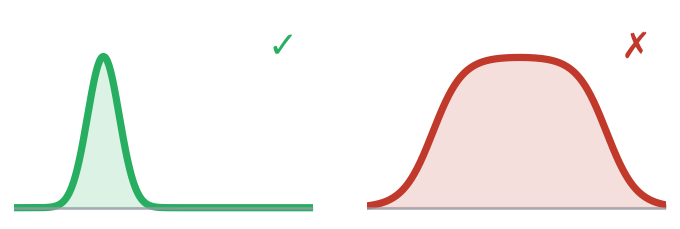
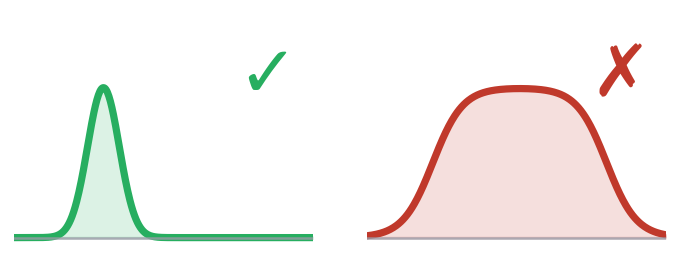
Time to look at the pictogram, and marks big enough to read
Three seconds is enough to get ready and not enough to read a drawing and
then get ready, so the picture went by before it had been seen.

It is shown through the warm-up as well — ten seconds with nothing to do but
warm up, which is where there is most time — and the first countdown of each
muscle, the one that carries it, lasts seven seconds instead of three.
Nothing recorded moves with that: the CAL span opens when the effort does,
not when the count starts.

And the tick and the cross are drawn twice the size. At the distance this
panel is read from they are the first thing looked at, and they are what says
which of the two shapes is being asked for.

Changed region(s): [[0.525, 0.1223, 0.9882, 0.9476], [0.0, 0.214, 0.4632, 0.9476], [0.3706, 0.1528, 0.4324, 0.3668]]

diff --git a/src/emgteach/gui/tabs/acquisition.py b/src/emgteach/gui/tabs/acquisition.py
@@ -156,6 +156,12 @@ MAX_MARKER_LINES = 40
 # Guided MVC-calibration wizard timing.
 MVC_TICK_MS = 100   # state-machine tick
 MVC_READY_S = 3.0   # "get ready" countdown before each contraction
+#: And the first of each muscle, which is the one that carries the
+#: pictogram of the gesture. Three seconds is enough to get ready and not
+#: enough to look at a drawing and then get ready: the picture went by
+#: before it could be read. Nothing recorded moves with this — the ``CAL``
+#: span opens when the effort does, not when the count starts.
+MVC_READY_PRIMERA_S = 7.0
 MVC_REST_S = 2.0    # relax pause between reps / muscles
 
 #: The free manoeuvres of the pair practical: six contractions led by one
@@ -3228,7 +3234,11 @@ class AcquisitionTab(QWidget):
             # the first maximal effort of a session is never the strongest —
             # is in the tour, the guide and the manual, where there is time.
             detalle = tr("Two or three easy contractions of each muscle.")
-            self._mvc_overlay.show_ready(titulo, cuenta, detalle)
+            # The picture of what is coming, where there is most time to
+            # look at it: ten seconds with nothing to do but warm up.
+            self._mvc_overlay.show_ready(
+                titulo, cuenta, detalle, imagen("sacudida"),
+                waiting=min(1.0, self._mvc_elapsed / max(total, 1e-9)))
             self._mvc_info(tr("Warming up: {n}").format(n=cuenta))
             self._bcast_calib(True, "warmup", titulo, detalle, count=cuenta)
             if self._mvc_elapsed >= total:
@@ -3237,9 +3247,11 @@ class AcquisitionTab(QWidget):
             return
 
         if self._mvc_phase == "ready":
+            total_cuenta = (MVC_READY_PRIMERA_S if self._mvc_rep == 0
+                            else MVC_READY_S)
             if self._mvc_elapsed <= MVC_TICK_MS / 1000.0:
                 self._mvc_rest_buf = []      # one baseline per repetition
-            count = max(1, int(np.ceil(MVC_READY_S - self._mvc_elapsed)))
+            count = max(1, int(np.ceil(total_cuenta - self._mvc_elapsed)))
             detalle = self._mvc_gesto(self._mvc_muscle)
             self._mvc_overlay.show_ready(
                 tr("Get ready — {label}{rep}").format(label=label, rep=rep),
@@ -3255,7 +3267,7 @@ class AcquisitionTab(QWidget):
                 # picture pays for itself once; by the second repetition it
                 # is a panel taller than it needs to be over the traces.
                 imagen("sacudida") if self._mvc_rep == 0 else None,
-                waiting=min(1.0, self._mvc_elapsed / MVC_READY_S),
+                waiting=min(1.0, self._mvc_elapsed / total_cuenta),
             )
             self._mvc_info(
                 tr("Get ready — {label}{rep}: {n}").format(label=label, rep=rep, n=count)
@@ -3265,7 +3277,7 @@ class AcquisitionTab(QWidget):
                 tr("Get ready — {label}{rep}").format(label=label, rep=rep),
                 detalle, count=count,
             )
-            if self._mvc_elapsed >= MVC_READY_S:
+            if self._mvc_elapsed >= total_cuenta:
                 self._mvc_phase = "contract"
                 self._mvc_elapsed = 0.0
                 self._mvc_cur_buf = []

diff --git a/tools/pictograma_sacudida.py b/tools/pictograma_sacudida.py
@@ -54,7 +54,7 @@ def _meseta(t: np.ndarray) -> np.ndarray:
 
 
 def dibuja(destino: Path = SALIDA) -> Path:
-    fig, ejes = plt.subplots(1, 2, figsize=(3.4, 1.15), dpi=200)
+    fig, ejes = plt.subplots(1, 2, figsize=(3.4, 1.30), dpi=200)
     t = np.linspace(0, 1, 400)
     for ax, y, color, marca in (
         (ejes[0], _pico(t), VERDE, "✓"),
@@ -63,10 +63,13 @@ def dibuja(destino: Path = SALIDA) -> Path:
         ax.plot(t, y, color=color, linewidth=2.6, solid_capstyle="round")
         ax.fill_between(t, 0, y, color=color, alpha=0.16)
         ax.set_xlim(0, 1)
-        ax.set_ylim(-0.08, 1.35)
+        ax.set_ylim(-0.08, 1.55)
         ax.axis("off")
         # The mark goes in the corner, away from the curve it judges.
-        ax.text(0.95, 1.18, marca, color=color, fontsize=13, fontweight="bold",
+        # Grande: a la distancia a la que se mira este panel, el visto y la
+        # cruz son lo primero que se lee, y son lo que dice cuál de las dos
+        # formas se pide.
+        ax.text(0.95, 1.30, marca, color=color, fontsize=26, fontweight="bold",
                 ha="right", va="top")
         # A baseline, so the shape reads as a signal and not as a hill.
         ax.plot([0, 1], [0, 0], color=TINTA, linewidth=0.9, alpha=0.8)

diff --git a/tests/test_gui_session_phases.py b/tests/test_gui_session_phases.py
@@ -82,14 +82,16 @@ def _una_repeticion(tab) -> None:
     what is under test is which annotations come out and in what order, not how
     long a countdown lasts.
     """
-    from emgteach.gui.tabs.acquisition import MVC_READY_S
+    from emgteach.gui.tabs.acquisition import MVC_READY_PRIMERA_S
 
     tab._mvc_reps = 1
     tab._mvc_bursts = 0                     # no brief efforts either
     tab._mvc_muscle = 0
     tab._mvc_rep = 0
     tab._mvc_phase = "ready"
-    tab._mvc_elapsed = MVC_READY_S          # the countdown has just run out
+    # The first of each muscle has the longer count — it is the one that
+    # carries the pictogram — and this is rep 0.
+    tab._mvc_elapsed = MVC_READY_PRIMERA_S  # the countdown has just run out
     tab._mvc_tick()                         # → contract, opens the CAL span
     tab._mvc_cur_buf = [0.10] * 100
     tab._mvc_finish_rep()                   # closes it, computes, finishes

diff --git a/tests/test_simulada_obedece.py b/tests/test_simulada_obedece.py
@@ -286,7 +286,7 @@ class TestItIsQuietForAsLongAsTheWizardLasts:
     def test_the_wizard_asks_for_rest_from_the_warm_up_to_the_end(
         self, adquisicion
     ) -> None:
-        from emgteach.gui.tabs.acquisition import MVC_READY_S
+        from emgteach.gui.tabs.acquisition import MVC_READY_PRIMERA_S
         from emgteach.profiles import EMG_PROFILE
 
         tab = adquisicion
@@ -297,7 +297,7 @@ class TestItIsQuietForAsLongAsTheWizardLasts:
             tab._mvc_muscle = 0
             tab._mvc_rep = 0
             tab._mvc_phase = "ready"
-            tab._mvc_elapsed = MVC_READY_S
+            tab._mvc_elapsed = MVC_READY_PRIMERA_S     # la primera, más larga
             tab._mvc_tick()                                  # the countdown ends
             assert tab._mvc_phase == "contract"
             assert "CAL start ch=1 rep=1" in tab._worker.markers

diff --git a/CHANGELOG.md b/CHANGELOG.md
@@ -11,6 +11,8 @@ and this project adheres to [Semantic Versioning](https://semver.org/spec/v2.0.0
 
 - **The countdown before an effort says the gesture, and only that.** It said the rule first — a brief, explosive jerk and not a sustained push — and the gesture after it, which came to two lines in a panel read in three seconds while somebody is about to move. The rule is not lost by leaving: the pictogram beside that line says it without words, and the effort itself, a second and a half later, is titled with it. A pair the application knows nothing about has no gesture to name, so it still gets the rule — which is the one thing true of any pair, and why the instruction never assumes a forearm. Nothing the wizard shows wraps past one line now.
 
+- **And there is time to look at the pictogram.** Three seconds is enough to get ready and not enough to read a drawing and then get ready, so the picture went by before it had been seen. It is now shown through the warm-up as well — ten seconds with nothing to do but warm up, which is where there is most time — and the first countdown of each muscle, the one that carries it, lasts seven seconds instead of three. Nothing recorded moves with that: the `CAL` span opens when the effort does, not when the count starts. The tick and the cross are drawn twice the size, because at the distance this panel is read from they are the first thing looked at and what says which of the two shapes is being asked for.
+
 - **What the rehearsal with the simulated board found.** Four things a session run end to end shows and no test could: the warm-up put up a row of boxes it was never going to fill, so it has none — the map of the calibration appears with the first countdown, which is the first thing that fills one; the countdown is now **also a bar**, in the panel's blue, because the number says *now* and a bar says *how much is left* without being counted, and blue because green in this panel is the effort itself; the free contractions of the **first** muscle came out counted as zero while the second counted all six, because the onset detector measures its resting level from the first second it sees and that second was a contraction — each muscle's turn now opens with a second of rest, which is the same badly calibrated baseline 3.5.0 fixed in the analysis; and the manoeuvre that works both muscles at once **left no trace in the recording at all**, because the instruction to the device was one muscle with the other forced to rest and a grip cannot be said that way. The instruction is per muscle now, so the caller says what each one is doing, and it can be asked for repeated — a contraction every few seconds rather than a level held — which is what the six free manoeuvres look like. A rehearsal now counts 6, 6 and 3, and the three holds are in the file.
 
 - **The guided session goes on into the task.** It ran warm-up → calibration → preparation → «REC start» and stopped there, which is to say it accompanied the student through the reference and left them alone in the part that produces the data. There are four boxes now, one per phase, and along the bottom of each a **row of boxes that maps it**: one per action the phase asks for, in the colour that muscle has in the traces and in its load bar (`_CHANNEL_COLORS`, so the wizard and the plot never say different things), filled as each one is done. The calibration fills one per repetition closed, because there the application sets the rhythm; the six contractions of each muscle are free, at the student's own pace, so those fill by **detecting** them with the same onset detector the analysis uses — and the phase ends when the student says so, with «Done — next» or the space bar, never when the boxes are full. A detector that misses one must not be able to strand anybody in a phase that will not end; if boxes are left empty and the signal says otherwise, the count that counts is the analysis's. Last comes the manoeuvre that works both muscles at once, held three times with a bar that runs the hold.
